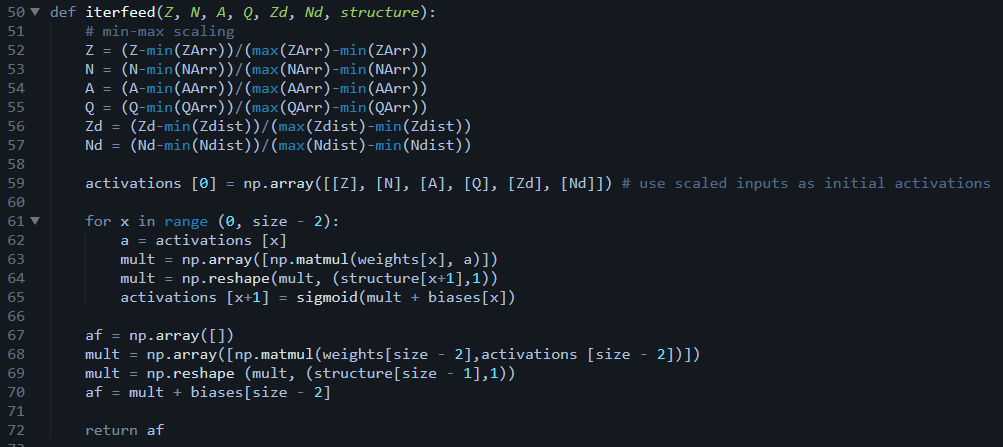
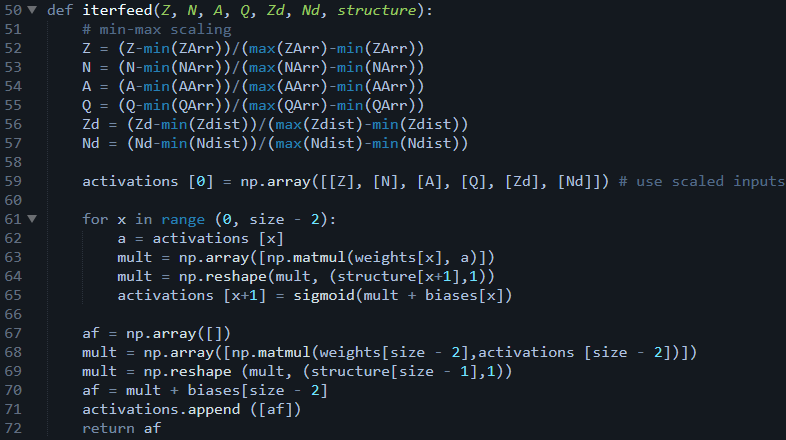
nearly done

diff --git a/Code/Network2.py b/Code/Network2.py
@@ -1,15 +1,12 @@
 import numpy as np
+from numpy.random import default_rng
 import matplotlib.pyplot as plt
 import data
 from data import Data
-import joblib
 
-# miscellaneous functions
 sigmoid = lambda x : 1.0/(1.0+np.exp(-x))
 sigmoid_prime = lambda z : sigmoid(z)*(1-sigmoid(z))
 
-# database
-d = Data()
 
 class Network ():
 
@@ -33,6 +30,8 @@ class Network ():
 			self.activations.append(np.zeros((structure[x],1)))
 
 		self.learningrate = learningrate
+
+		self.trainSet, self.trainLabels, self.testSet, self.testLabels, self.modelLabels = self.getSets ()
 
 	def feedforward (self, data):
 
@@ -91,26 +90,75 @@ class Network ():
 		for x in range (0,self.size-1):
 			self.weights [x] = self.weights [x] - (learningrate * deltaWeights[x]) # adjust each weight by delta weight
 			self.biases[x] = self.biases [x] - (learningrate * deltaBiases[x]) # adjust each bias by delta bias
+	
+	def getSets (self):
 
-	def train (self, dataset, targets, epochs):
+		isotopes = d.getIsotope() # get set of Isotopes
+		halflives = d.getHL() # get set of Half-Lives
+		model = d.getModel() # get set of (Stat) Model Predictions
+
+		numTrain = len(isotopes)*8//10 # set # of training items to be 80%
+		numTest = len(isotopes) - numTrain # # of testing items is therefore 20%
+
+		allIsotopes = np.arange(len(isotopes)) # array of numbers from 0 to len(isotopes)
+
+		trainingNums = np.random.choice (len(isotopes), size = numTrain, replace = False) # replace: whether or not a sample is returned to the sample pool
+		testingNums = np.delete(allIsotopes, trainingNums) # testingNums is all isotopes - trainingNums
+
+		trainSet = []
+		trainLabels = []
+		for x in range (numTrain):
+			trainSet.append (isotopes[trainingNums[x]])
+			trainLabels.append (np.log10(halflives[trainingNums[x]]))
+
+		testSet = []
+		testLabels = []
+		for x in range (numTest):
+			testSet.append (isotopes[testingNums[x]])
+			testLabels.append (np.log10(halflives[testingNums[x]]))
+
+		modelLabels = []
+		for x in range (numTest):
+			modelLabels.append(np.log10(model[testingNums[x]]))
+
+		return trainSet, trainLabels, testSet, testLabels, modelLabels
+
+	def train (self, epochs):
 		for x in range (epochs): # for the specified amount of epochs
-			#print (f"Epoch {x+1}")
-			for y in range (0, len(dataset)): # for each value in the dataset
-				activation = self.feedforward (dataset[y]) # feed it forward
-				self.backpropagation (activation, targets[y]) # backpropagate against the target
+			print (f"Epoch {x+1}")
+			for y in range (0, len(self.trainSet)): # for each value in the dataset
+				activation = self.feedforward (self.trainSet[y]) # feed it forward
+				self.backpropagation (activation, self.trainLabels[y]) # backpropagate against the target
 
-	def evaluate (self, dataset, targets):
+	def evaluate (self):
 		predictions = [] # define array for predictions
 		errors = [] # define array for errors
-		for isotope in dataset:
+		for isotope in self.testSet:
 			prediction = self.feedforward (isotope)
 			predictions.append(prediction) # add predictions to array of predictions
 		for x in range (len(predictions)):
-			error = predictions[x] - targets[x] # calculate errors
+			error = predictions[x] - self.testLabels[x] # calculate errors
 			errors.append (error**2) # append error^2 to array
-		stddev =  (np.sum(errors)**(1/2)) / len(dataset) # sigma = (1/n)*(sum of (errors)^2)^(1/2)
+		stddev =  (np.sum(errors)**(1/2)) / len(self.testLabels) # sigma = (1/n)*(sum of (errors)^2)^(1/2)
 		return float(stddev)
 
-	def save (self):
-		joblib.dump(self.weights, "weights")
-		joblib.dump(self.biases, "biases")
+	def compare (self):
+		errors = []
+		for x in range (len(self.modelLabels)):
+			error = self.testSet [x] - self.modelLabels[x]
+			errors.append (error**2)
+
+		modelScore = (np.sum(errors)**(1/2)) / len(self.modelLabels)
+
+		netScore = self.evaluate()
+		print (f"Model Score: {modelScore}")
+		print (f"Net Score: {netScore}")
+
+d = Data()
+net = Network ([6,16,16,16,16,1])
+
+
+print ("Training")
+net.train(100) # train for 100 epochs
+print ("Testing")
+net.compare() # compare the model to the network

diff --git a/Code/evaluate.py b/Code/evaluate.py
@@ -1,0 +1,100 @@
+import Network
+from Network import Network
+
+def getSets ():
+	global stddevModel
+
+	isotopes = d.getIsotope()
+	halflives = d.getHL()
+
+	numTrain = len(isotopes)*8//10 # number of training isotopes = len(dataset) * 0.8
+	numTest = len(isotopes)-numTrain # number of testing is what remains
+
+	totalNums = np.arange(len(isotopes)) # all the possible indices I can use for isotopes
+
+	randomNums = np.random.choice (len(isotopes), numTrain, replace = False) # replace: whether or not a sample is returned to the sample pool
+	testingNums = np.delete(totalNums, randomNums) # define testing indices to be whatever is left after getting rid of training
+
+	trainSet = []
+	trainLabels = []
+
+	for x in range (numTrain):
+		trainSet.append (isotopes[randomNums[x]])
+		trainLabels.append (np.log10(halflives[randomNums[x]]))
+
+	testSet = []
+	testLabels = []
+
+	for x in range (numTest):
+		testSet.append (isotopes[testingNums[x]])
+		testLabels.append (np.log10(halflives[testingNums[x]]))
+
+	model = d.getModel()
+	errors = []
+
+	for x in range (numTest):
+		actual = np.log10(halflives[testingNums[x]])
+		models = np.log10(model[testingNums[x]])
+		error = models - actual
+		errors.append(error**2)
+
+	stddevModel =  (np.sum(errors)**(1/2)) / (numTest)
+	#print (f"Statistical Model Error: {stddevModel}")
+
+	return trainSet, trainLabels, testSet, testLabels, stddevModel
+
+trainSet, trainLabels, testSet, testLabels, stddevModel = getSets ()
+
+net = Network ([6,16,20,20,16,1])
+
+print ("Training...")
+net.train(trainSet, trainLabels, epochs = 500) # train network
+print ("Training Complete")
+
+print ("Round 1")
+stddevNetwork = net.evaluate(testSet, testLabels) # evaluate network on given test set
+print (f"Network Deviation: {stddevNetwork}") # print net score
+print (f"Stat Model Deviation: {stddevModel}") # print model score
+
+if stddevNetwork < stddevModel: # if net is better than model
+	print("Round 2") # round 2
+	trainSet, trainLabels, testSet, testLabels, stddevModel = getSets () # fresh sets
+	stddevNetwork = net.evaluate(testSet, testLabels) # evaluate using already trained weights and biases
+	print (f"Network Deviation: {stddevNetwork}") # print net score
+	print (f"Stat Model Deviation: {stddevModel}") # print model score
+
+	if stddevNetwork < stddevModel:
+		print("Round 3")
+		trainSet, trainLabels, testSet, testLabels, stddevModel = getSets () # repeat above
+		stddevNetwork = net.evaluate(testSet, testLabels)
+		print (f"Network Deviation: {stddevNetwork}")
+		print (f"Stat Model Deviation: {stddevModel}")
+
+		if stddevNetwork < stddevModel: # if net better than model 3 times
+			net.save() # save weights and biases
+
+
+
+
+
+
+
+'''
+errors = []
+
+epochs = 2000
+
+print (f"Error Before Backpropagation: {net.feedforward (isotopes[i]) - np.log10 (d.getHL()[i])}")
+
+for x in range (0, epochs):
+	activation = net.feedforward (isotopes[i]) - np.log10 (d.getHL()[i])
+	net.backpropagation (activation, np.log10 (d.getHL()[i]))
+	error = activation - np.log10 (d.getHL()[i])
+	errors.append(float(error))
+	if x == (epochs-1):
+		print (f"Final Error in BackProp: {error}")
+		print (f"Log 10 of Predicted Half Life = {activation}")
+		print (f"Log 10 of Actual Half Life = {np.log10 (d.getHL()[i])}")
+
+print (f"Error After Backpropagation: {float(net.feedforward (isotopes[i])) - float(np.log10 (d.getHL()[i]))}")
+'''

diff --git a/Code/FeedForward Prototypes/FeedPrototype2.py b/Code/FeedForward Prototypes/FeedPrototype2.py
@@ -3,7 +3,7 @@ import getData as gd
 
 sigmoid = lambda x : 1.0/(1.0+np.exp(-x))
 
-structure = [6,16,16,16,16,1]
+structure = [6,10,25,30,25,10,1]
 
 w01 = np.asarray(np.random.rand(structure[1],structure[0])) # define weights from layer 0 to 1
 b01 = np.asarray(np.random.rand(structure[1],1)) # define biases from layer 0 to 1
@@ -35,17 +35,17 @@ for x in range (0,(len(structure) - 1)):
 	weights.append(np.asarray(np.random.rand(structure[x+1],structure[x])))
 	biases.append(np.asarray(np.random.rand(structure[x+1],1)))
 
-weights[0], weights[1], weights[2], weights[3], weights[4] = w01, w12, w23, w34, w45
-biases[0], biases[1], biases[2], biases[3], biases[4]= b01,b12,b23,b34,b45
+#weights[0], weights[1], weights[2], weights[3], weights[4] = w01, w12, w23, w34, w45
+#biases[0], biases[1], biases[2], biases[3], biases[4]= b01,b12,b23,b34,b45
 
 for x in range (0, len(structure)):
 	activations.append(np.zeros((structure[x],1)))
 
 size = len(structure)
 
-print (len(weights))
-print (len(biases))
-print (len(activations))
+#print (len(weights))
+#print (len(biases))
+#print (len(activations))
 
 def iterfeed(Z, N, A, Q, Zd, Nd, structure):
 	# min-max scaling
@@ -68,7 +68,7 @@ def iterfeed(Z, N, A, Q, Zd, Nd, structure):
 	mult = np.array([np.matmul(weights[size - 2],activations [size - 2])])
 	mult = np.reshape (mult, (structure[size - 1],1))
 	af = mult + biases[size - 2]
-
+	activations.append ([af])
 	return af
 
 def feedforward (Z, N, A, Q, Zd, Nd, structure):
@@ -111,8 +111,10 @@ def feedforward (Z, N, A, Q, Zd, Nd, structure):
 
 
 i = 0
-t12 = feedforward (ZArr[i], NArr[i], AArr[i], QArr[i], Zdist[i], Ndist[i], structure)
+'''t12 = feedforward (ZArr[i], NArr[i], AArr[i], QArr[i], Zdist[i], Ndist[i], structure)
 print ("Half-Life V: "+ str(t12[0][0]) + "s")
+
+i=0'''
 
 t12 = iterfeed (ZArr[i], NArr[i], AArr[i], QArr[i], Zdist[i], Ndist[i], structure)
 print ("Half-Life I: "+ str(t12[0][0]) + "s")

diff --git a/Code/GUI/generated_code/window.py b/Code/GUI/generated_code/window.py
@@ -1,11 +1,22 @@
 import sys
-sys.path.insert(1, 'C:/Users/M M Amjad/Documents/[=] A Level/Sixth Form/CS Project/Code')
+#sys.path.insert(1, 'C:/Users/M M Amjad/Documents/[=] A Level/Sixth Form/CS Project/Code')
 
 from tkinter import *
 #import Network
 #from Network import Network
 
 #net = Network ()
+
+
+class NewWindow(Toplevel):
+     
+    def __init__(self, master = None, texts = "Error"):
+         
+        super().__init__(master = master)
+        self.title("Error")
+        self.geometry("300x50")
+        label = Label(self, text = texts)
+        label.pack()
 
 
 def btn_clicked():
@@ -15,23 +26,29 @@ def btn_clicked():
         Z = int (entry0.get())
     except ValueError:
         print ("Please enter an integer number of Protons")
+        entry0.delete (0,END)
+        NewWindow (window, "Please enter an integer number of Protons")
         return
 
     try:
         N = int (entry1.get())
     except ValueError:
         print ("Please enter an integer number of Neutrons")
+        entry1.delete(0,END)
+        NewWindow (window, "Please enter an integer number of Neutrons")
         return
 
     try:
         Q = float (entry2.get())
     except ValueError:
         print ("Please enter a number for Energy Release")
+        entry2.delete(0,END)
+        NewWindow (window, "Please enter a number for Energy Release")
         return
 
     A = Z+N
-    Zdist = min ([abs(Z-28), abs(Z-50), abs(Z-82), abs(Z-126)])
-    Ndist = min ([abs(N-28), abs(N-50), abs(N-82), abs(N-84), abs(N-126)])
+    Zdist = min ([abs(Z-2), abs(Z-8), abs(Z-20), abs(Z-28), abs(Z-50), abs(Z-82), abs(Z-126)])
+    Ndist = min ([abs(N-2), abs(N-8), abs(N-20), abs(N-28), abs(N-50), abs(N-82), abs(N-84), abs(N-126)])
     data.append(Z)
     data.append(N)
     data.append(A)

diff --git a/Code/Backprop Prototypes and Tests/BackpropPrototype.py b/Code/Backprop Prototypes and Tests/BackpropPrototype.py
@@ -69,9 +69,9 @@ def backpropagation (activation, target, learningrate):
 	deltaw.insert (0, np.matmul(activations[-2], error_l))
 
 	# second last layer
+
 	#print (weights[-1].shape)
 	#print (error_l.shape)
-
 	foo = np.matmul (weights[-1].transpose(), error_l)
 	error_2l = np.multiply (foo, sigmoid_prime (preactive[-2]))
 	error_2l = np.reshape (error_2l, (1,structure[-2]))
@@ -125,8 +125,7 @@ def backpropagation (activation, target, learningrate):
 
 	for b,db in zip (biases, deltab):
 		b = b - learningrate*db
-	#weights = (w + learningrate*dw for w,dw in zip (weights, deltaw))
-	#biases = (b + learningrate*db for b,db in zip (biases, deltab))
+
 
 
 i = 0
@@ -141,13 +140,14 @@ isotope = d.getIsotope()
 error = feedforward (isotope[i], structure) - np.log10 (d.getHL()[i])
 print (f"Error: {error}")
 
-errors = []
-
-for z in range (0, 2000):
+for z in range (0, 3):
 	activation = feedforward (isotope[i], structure)
-	backpropagation (feedforward (isotope[i], structure), np.log10 (d.getHL()[i]), 0.01)
+	backpropagation (feedforward (isotope[i], structure), np.log10 (d.getHL()[i]))
 	#print (f"{z+1} iterations done")
 	error = feedforward (isotope[i], structure) - np.log10 (d.getHL()[i])
+print (error)
+
+
 	errors.append (error)
 
 #print (errors)

diff --git a/Code/JoblibTest.py b/Code/JoblibTest.py
@@ -1,0 +1,9 @@
+import numpy as np
+import joblib
+
+numbers = np.arange (15)
+joblib.dump(numbers, "test1")
+numbers2 = joblib.load ("test1")
+
+print (numbers)
+print(numbers2)
